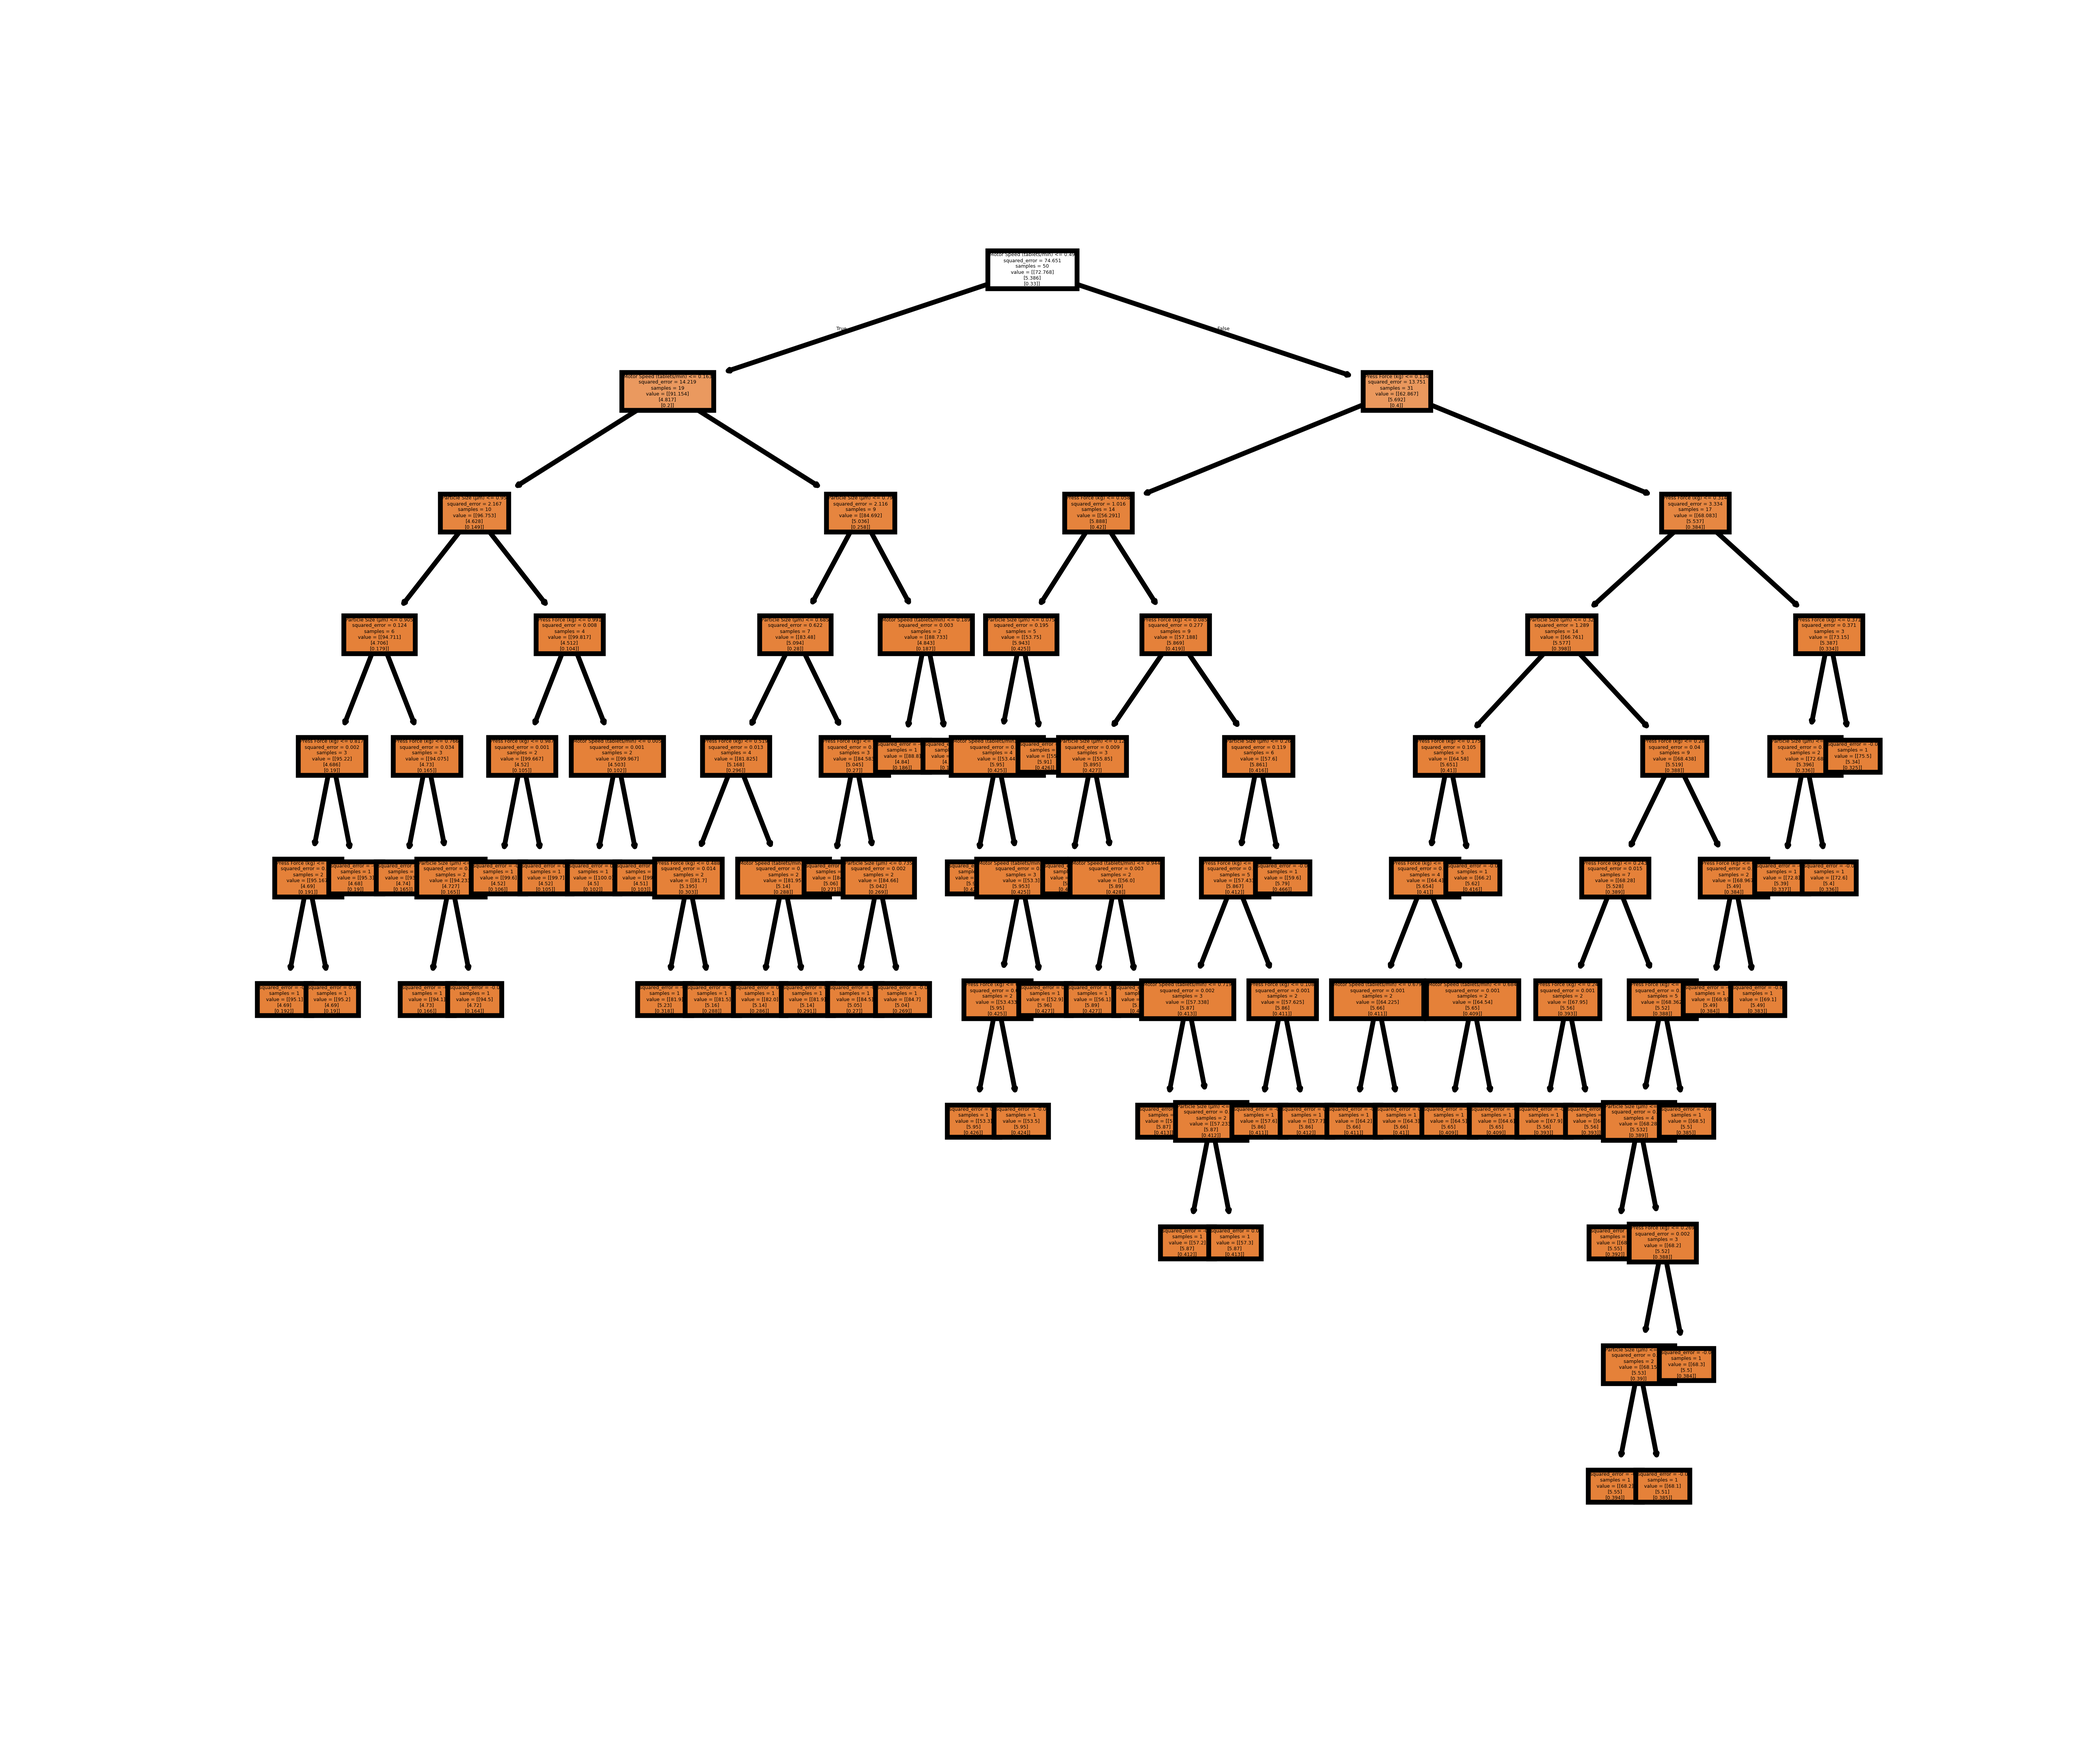
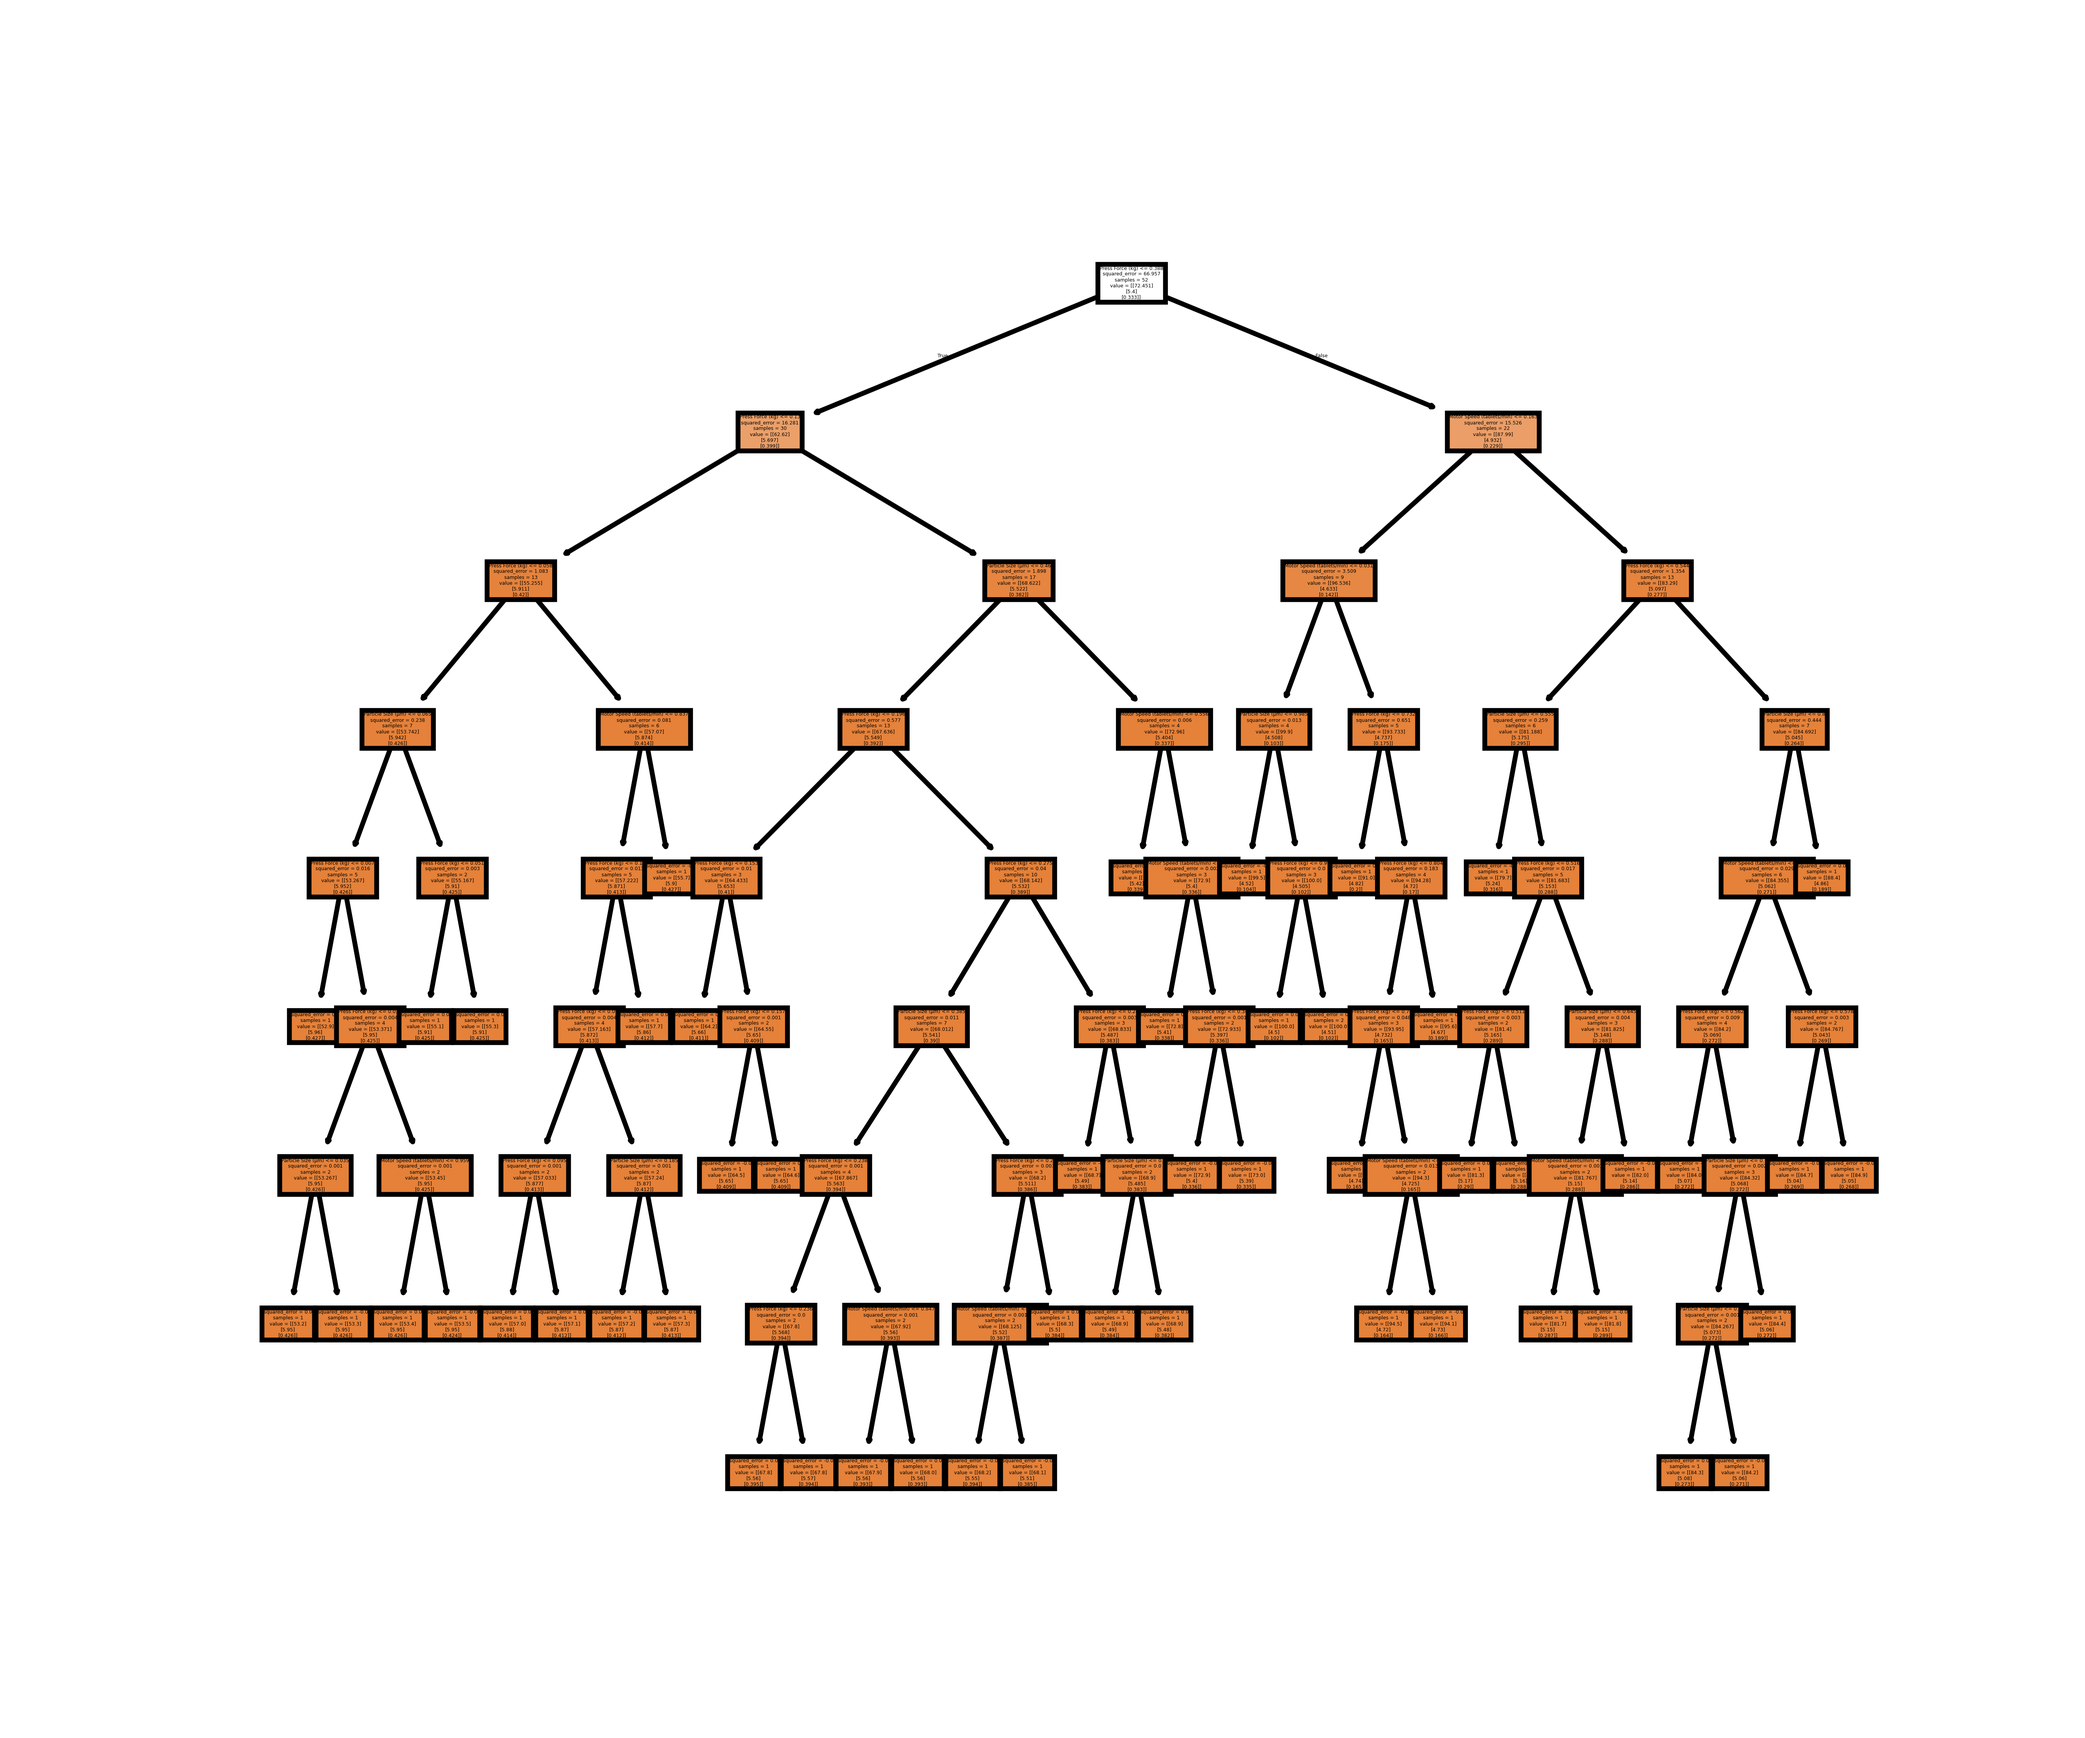
rename

diff --git a/AI_Model_Pill/RandomForest.py b/AI_Model_Pill/RandomForest.py
@@ -1,14 +1,8 @@
-#what do we need to do to the data
-#what can be smart to do
-# 1 . normalice tablet hardness and hight
-# 2 clean up the pressforce
-# 3 do tomting about the partical size data
-
-
 
 #imports
 import pandas as pd
 from sklearn import preprocessing
+from sklearn.cluster import mean_shift
 from sklearn.ensemble import RandomForestRegressor
 from sklearn.model_selection import train_test_split
 from sklearn.metrics import mean_absolute_error
@@ -17,7 +11,7 @@ import matplotlib.pyplot as plt
 import numpy as np
 import time
 from sklearn.metrics import root_mean_squared_error, r2_score
-from win32con import NULLREGION
+
 
 #getting the data and setting up what is feature and target
 FilePath = 'https://raw.githubusercontent.com/MrHexeberg/AI-medical-project/refs/heads/main/Tablet%20examination%20-%20Munka1.csv'
@@ -29,7 +23,7 @@ Input_data = Input_data.drop(columns="Measurement")
 
 print(Input_data)
 
-
+print(Input_data.mean())
 
 print("We are doing stuff with the data...")
 
@@ -47,11 +41,11 @@ data_out_feature = pd.DataFrame(data_out_feature, columns = FeatureColumns)
 
 print("We are noe fitting the model\nThis may take a moment...\n")
 #testing out a model on the data and the scaling. fist spliting it up
-data_out_feature_train, data_out_feature_test, data_out_target_train, data_out_target_test = train_test_split(data_out_feature, data_out_target, test_size=0.2, random_state=None)
+data_out_feature_train, data_out_feature_test, data_out_target_train, data_out_target_test = train_test_split(data_out_feature, data_out_target, test_size=0.2, random_state=42)
 
 
 #valling the model and puting in the data
-model = RandomForestRegressor(n_estimators=10, random_state=None)
+model = RandomForestRegressor(n_estimators=10, random_state=42)
 model.fit(data_out_feature_train, data_out_target_train)
 
 test_pred = model.predict(data_out_feature_test)
@@ -79,13 +73,13 @@ print("time to compleat", total, ".s")
 print("MAE Tablet Hardness:", mae_target1,".N")
 print("MAE Tablet Height:", mae_target2,".mm")
 print("MAE Tablet Friability:", mae_target3*100 , " %")
-print('RMSE:', rmse)
-print('R2:', r2)
+#print('RMSE:', rmse)
+#print('R2:', r2)
 
 
 print("tree depth = ", model.estimators_[0].tree_.max_depth)
 print("Number of trees" , len(model.estimators_))
-print("We are now making the visual'\n")
+print("\n\n\nWe are now making the visual'\n")
 # pringing the data set out to a csv file for later user
 Output_Data = pd.concat([data_out_feature,data_out_target], axis = 1)
 Output_Data.to_csv("MinMaxScaler.csv", index=False)
